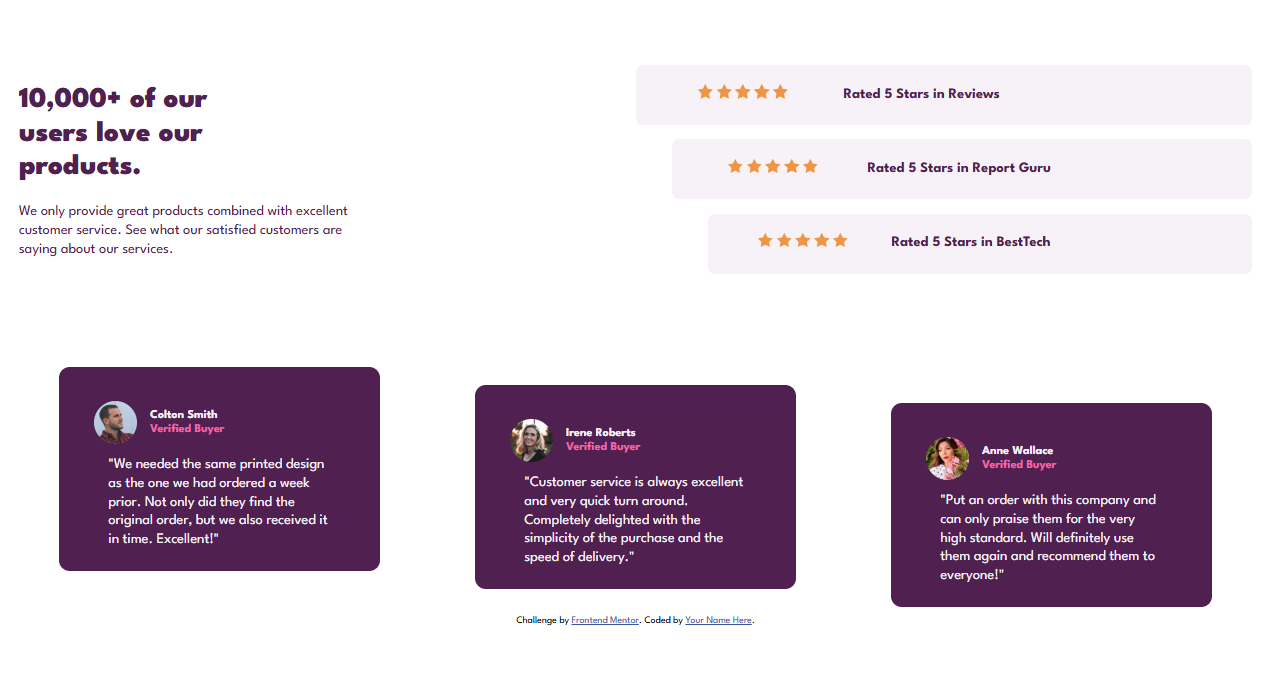
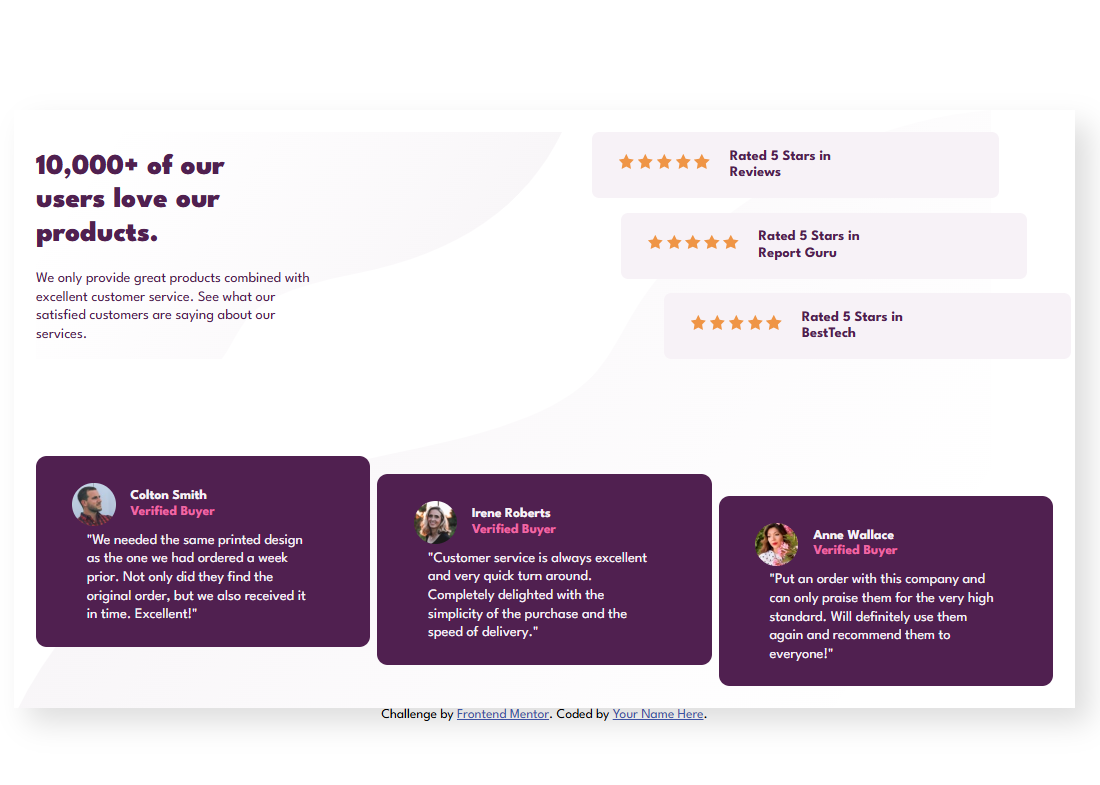
fix(html,css,img): fix media for large screen - updating screenshot. - fix variable's use at internal style -> [html]

diff --git a/style.css b/style.css
@@ -53,10 +53,14 @@ body {
   display: grid;
   grid-template-columns: 1fr;
   gap: 4rem;
+  background-image: url(images/bg-pattern-bottom-mobile.svg);
+  background-repeat: no-repeat;
 }
 
 .wrapper .header {
   text-align: center;
+  background-image: url(images/bg-pattern-top-mobile.svg);
+  background-repeat: no-repeat;
   color: var(--Very-Dark-Magenta);
 }
 
@@ -79,10 +83,11 @@ body {
   grid-template-columns: 1fr;
   grid-template-rows: repeat(3, 1fr);
   gap: 1rem;
+  justify-items: center;
 }
 
 .rates .rate {
-  margin-inline: auto;
+  width: 100%;
   padding: var(--padding);
   border-radius: 0.5rem;
   font-weight: var(--fw-700);
@@ -147,18 +152,27 @@ body {
 
 /* **** medium screen **** */
 @media (min-width: 45rem) {
-  .footer .cards {
-    grid-template-columns: repeat(auto-fit, minmax(20rem, 1fr));
-    column-gap: 1rem;
+  .wrapper {
+    width: 98%;
+    margin-inline: auto;
+    padding: var(--padding-inline);
+    background-image: url(images/bg-pattern-bottom-desktop.svg);
+    background-repeat: no-repeat;
+    box-shadow: 1rem 1rem 2rem 0 #ddd;
   }
 
-  .wrapper {
-    padding: var(--padding-inline);
-    width: 65rem;
+  .wrapper .header {
+    background-image: url(images/bg-pattern-top-desktop.svg);
+    background-repeat: no-repeat;
   }
 
   .header .rates .rate {
     width: 80%;
+  }
+
+  .footer .cards {
+    grid-template-columns: repeat(auto-fit, minmax(13rem, 1fr));
+    column-gap: 0.5rem;
   }
 }
 
@@ -190,16 +204,16 @@ body {
     text-align: left;
   }
 
+  .rates .reviews {
+    margin-inline-start: calc(var(--margin-inline) - 2rem);
+  }
+
   .rates .guru {
-    margin-inline-start: calc(var(--margin-inline) + 1rem);
+    margin-inline-start: calc(var(--margin-inline) + 2rem);
   }
 
   .rates .best-tech {
-    margin-inline-start: calc(var(--margin-inline) + 3.5rem);
-  }
-
-  .cards .card {
-    width: 80%;
+    margin-inline-start: calc(var(--margin-inline) + 8rem);
   }
 
   .cards .irene {
@@ -207,6 +221,6 @@ body {
   }
 
   .cards .anne {
-    margin-block-start: calc(var(--margin-inline) + 3.5rem);
+    margin-block-start: calc(var(--margin-inline) + 4rem);
   }
 }

diff --git a/index.html b/index.html
@@ -32,7 +32,7 @@
 
     <style>
       .attribution {
-        font-size: 0.6875rem;
+        font-size: var(--fs);
         text-align: center;
       }
       .attribution a {
